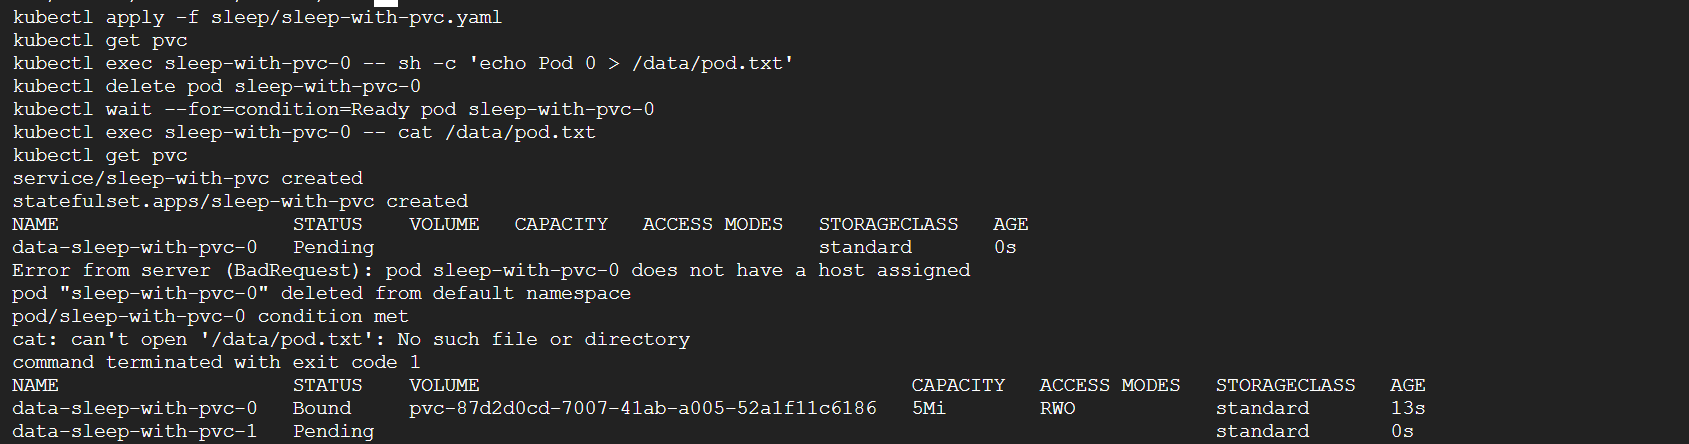
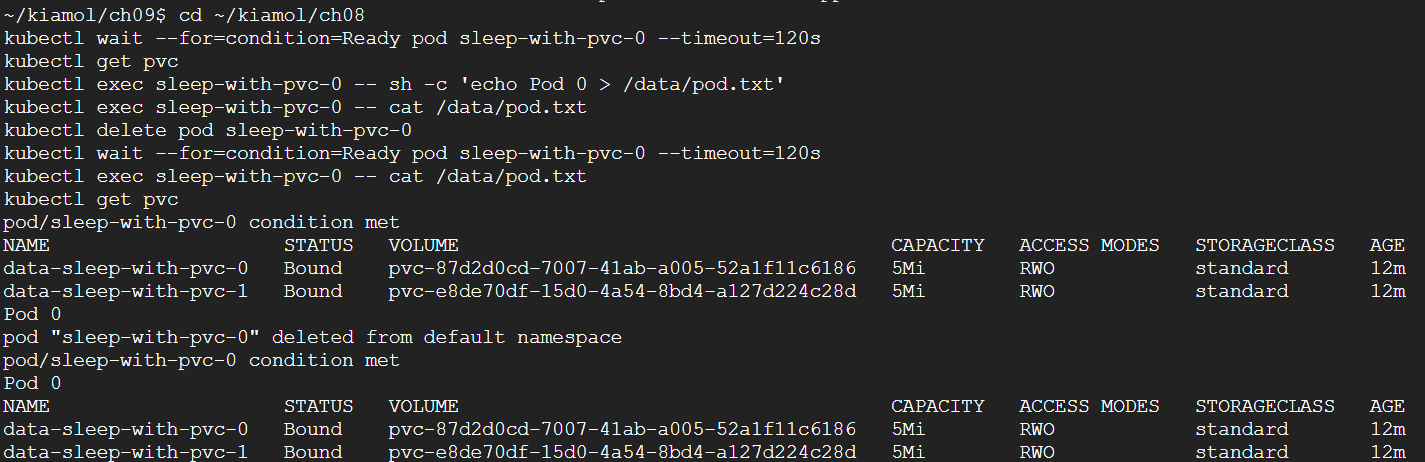
실습 스크린샷: week11 volumeClaimTemplates PVC 데이터 유지

diff --git a/posts/week11.html b/posts/week11.html
@@ -164,10 +164,8 @@ kubectl<span class="w"> </span>delete<span class="w"> </span>pod<span class="w">
 kubectl<span class="w"> </span><span class="nb">exec</span><span class="w"> </span>sleep-with-pvc-0<span class="w"> </span>--<span class="w"> </span>cat<span class="w"> </span>/data/pod.txt<span class="w">              </span><span class="c1"># 대체 파드가 데이터 유지</span>
 </code></pre></div>
 
-<div class="admonition capture">
-<p class="admonition-title">get pvc — 파드별 PVC와 데이터 유지</p>
-<p>(실습 화면 캡처)</p>
-</div>
+<p><img alt="get pvc — 파드별 PVC와 데이터 유지" src="../assets/img/week11-pvc.png" /><br />
+<em>▲ <code>volumeClaimTemplates</code>로 파드별 PVC(<code>data-sleep-with-pvc-0/1</code>)가 동적 생성·Bound된다. 파드 0에 쓴 <code>Pod 0</code>은 파드를 삭제해도, 대체 파드가 같은 PVC를 다시 연결하므로 그대로 읽힌다.</em></p>
 <h2 id="_4">롤아웃과 롤백</h2>
 <p>디플로이먼트는 기존 레플리카셋을 줄이고 새 레플리카셋을 늘려 무중단 업데이트한다. 파드 정의가 바뀔 때만 롤아웃이 적용된다(스케일 변경은 제외).</p>
 <div class="highlight"><pre><span></span><code><span class="nb">cd</span><span class="w"> </span>ch09

diff --git a/_content/week11.md b/_content/week11.md
@@ -164,8 +164,8 @@ kubectl delete pod sleep-with-pvc-0                              # 수동 삭제
 kubectl exec sleep-with-pvc-0 -- cat /data/pod.txt              # 대체 파드가 데이터 유지
 ```
 
-!!! capture "get pvc — 파드별 PVC와 데이터 유지"
-    (실습 화면 캡처)
+![get pvc — 파드별 PVC와 데이터 유지](../assets/img/week11-pvc.png)
+*▲ `volumeClaimTemplates`로 파드별 PVC(`data-sleep-with-pvc-0/1`)가 동적 생성·Bound된다. 파드 0에 쓴 `Pod 0`은 파드를 삭제해도, 대체 파드가 같은 PVC를 다시 연결하므로 그대로 읽힌다.*
 
 ## 롤아웃과 롤백
 
